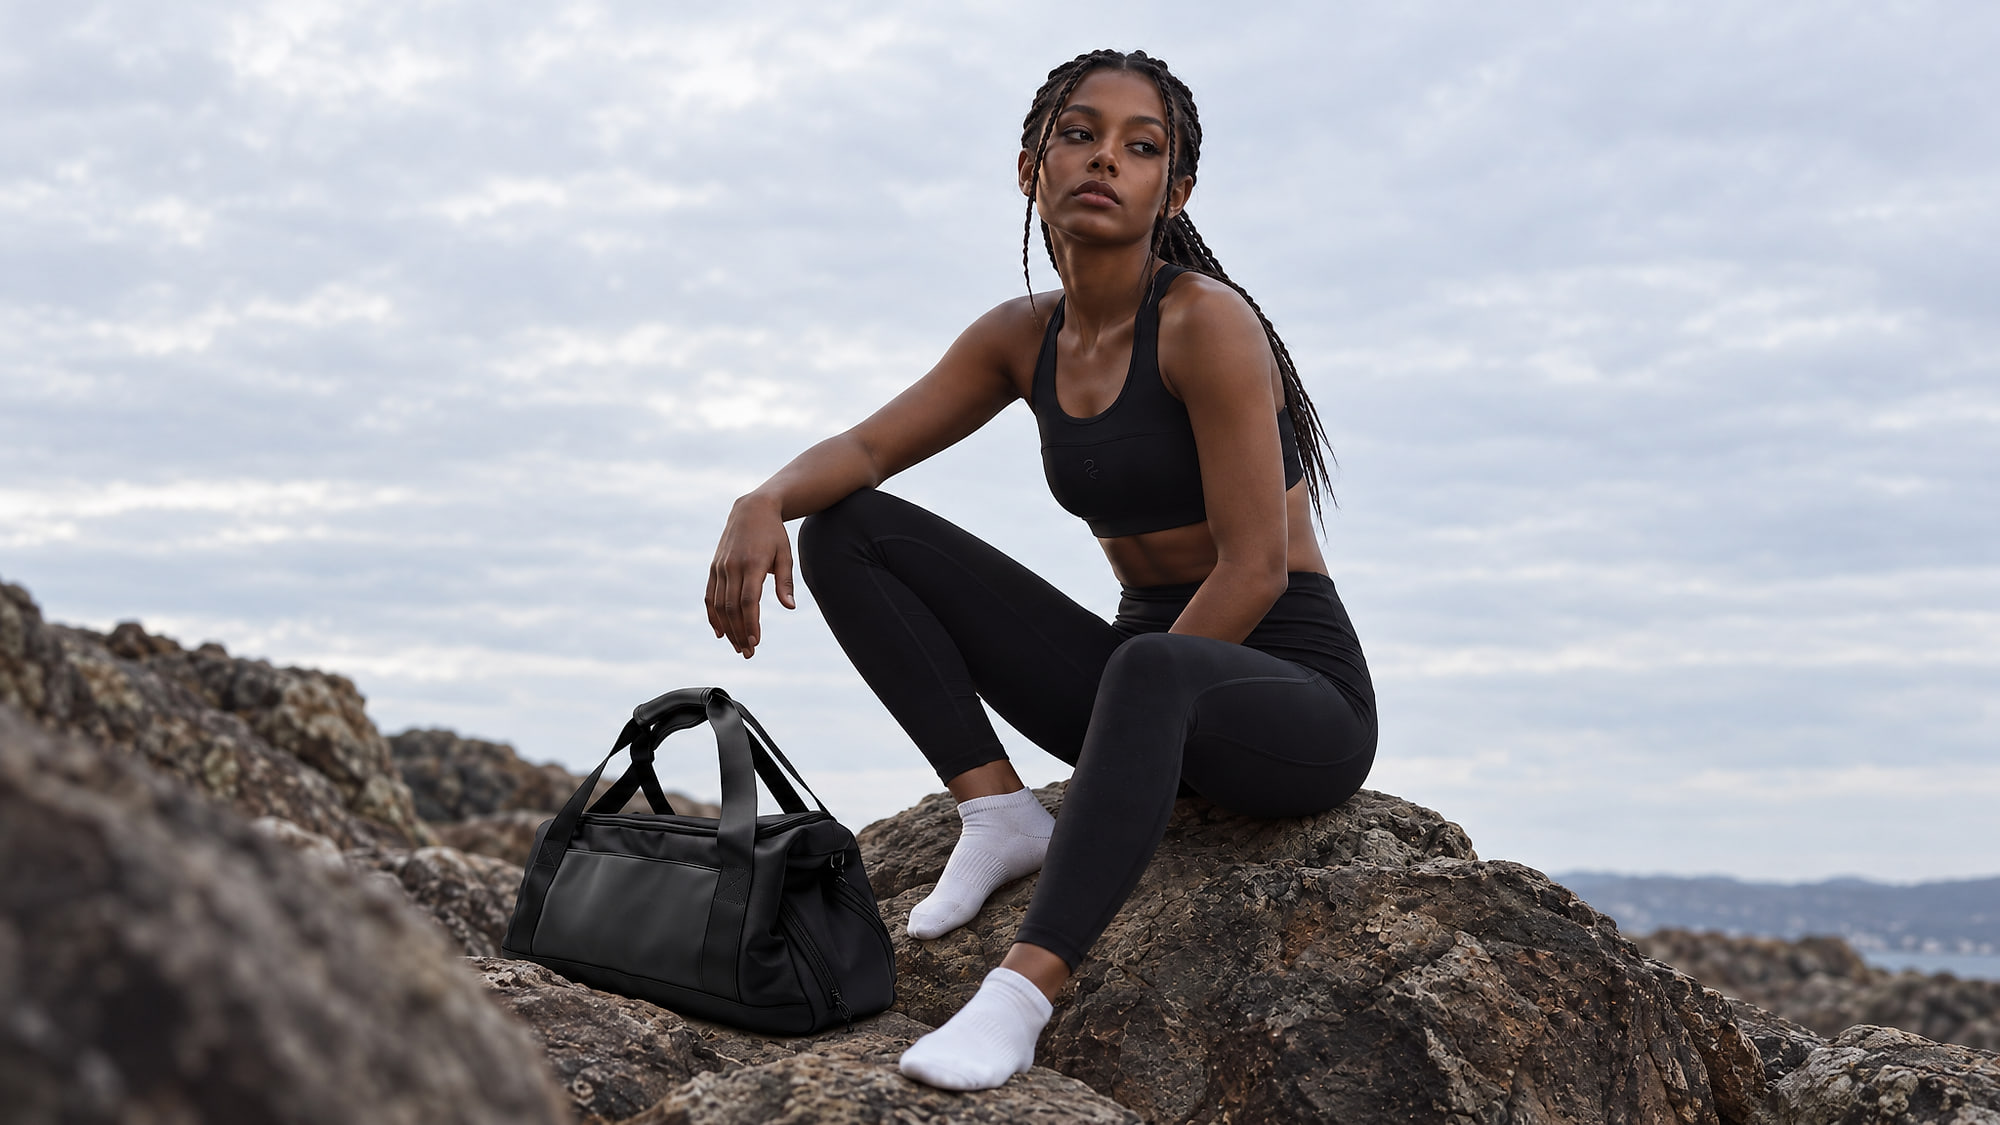
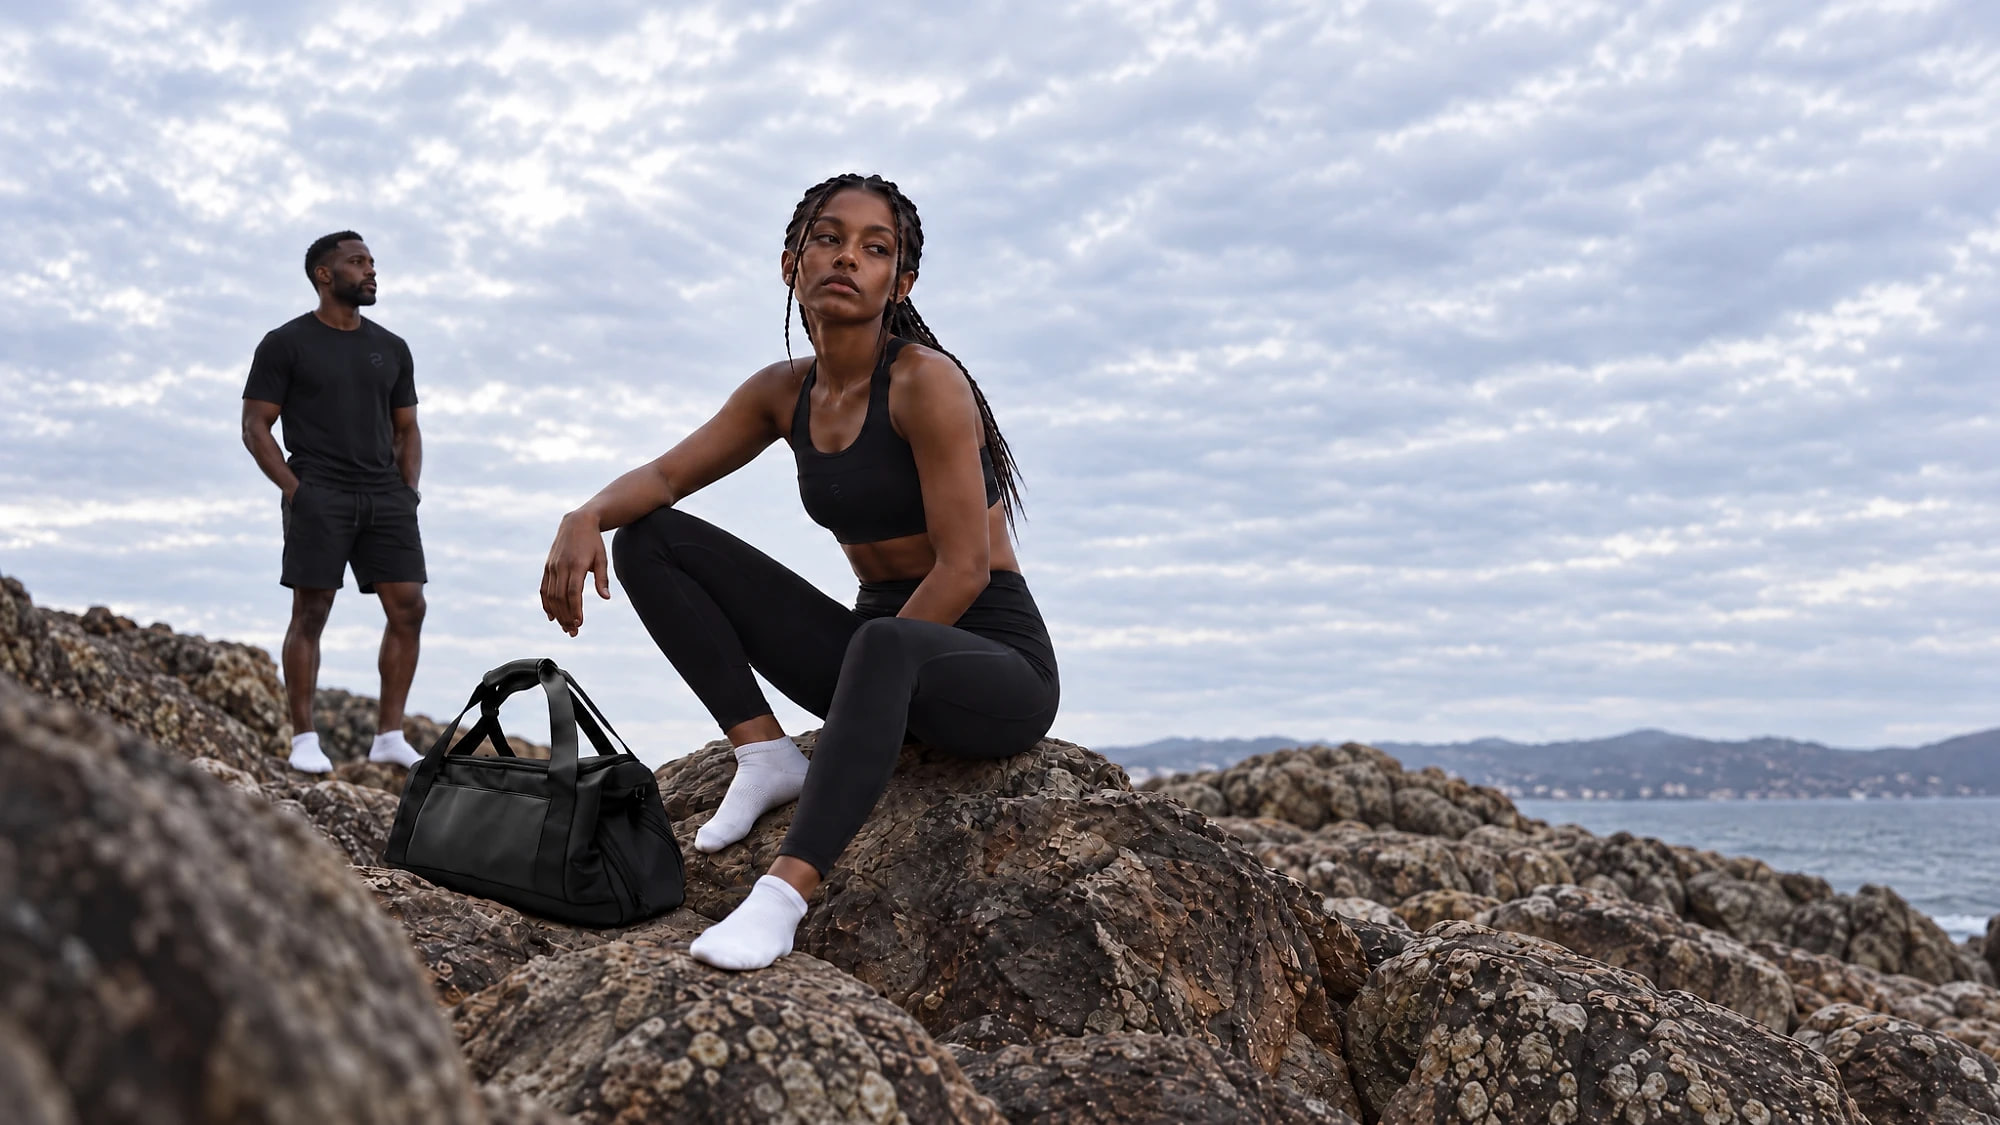
Homepage hero: coastal rocks pair shot (man + woman, gym bag)
Same 16:9 shape as before, so the band shows the whole photo unchanged.
Previous hero archived in Archives/image-originals-2026-10-30/hero-photo/.

diff --git a/index.html b/index.html
@@ -79,7 +79,7 @@
     #home-hero .hero-btn{display:inline-block;border:1px solid #fff;color:#fff;font-size:13px;font-weight:500;letter-spacing:.08em;text-transform:uppercase;padding:13px 30px;text-decoration:none;transition:background .2s,color .2s}
     #home-hero .hero-btn:hover{background:#fff;color:#0a0a0a}
     @media(max-width:767px){#home-hero .hero-copy{left:20px;bottom:20px}#home-hero .hero-title{margin-bottom:12px}#home-hero .hero-eyeb{font-size:9px;margin-bottom:8px}#home-hero .hero-btn{font-size:11px;padding:9px 18px}#home-hero .hero-shade{width:85%;height:70%}}
-    #home-hero .hv img{position:absolute;inset:0;width:100%;height:100%;object-fit:cover;object-position:50% 0%} /* hero photo (29 Oct, rocks + sky; was the high-five team shot): pinned to the top so her head stays in on wide screens */
+    #home-hero .hv img{position:absolute;inset:0;width:100%;height:100%;object-fit:cover;object-position:50% 0%} /* hero photo (30 Oct, man + woman on coastal rocks with the gym bag; was the 29 Oct woman-on-rocks shot): pinned to the top so her head stays in on wide screens */
     #home-hero .hv video{position:absolute;inset:0;width:100%;height:100%;object-fit:cover;object-position:50% 22%} /* hero video (28 Oct 2026, Kive.ai campaign clip, 1280x720, 6 s): keeps faces in when the band crops it */
     #home-hero .home-hero-body{padding-bottom:0!important}
     @media(max-width:767px){
